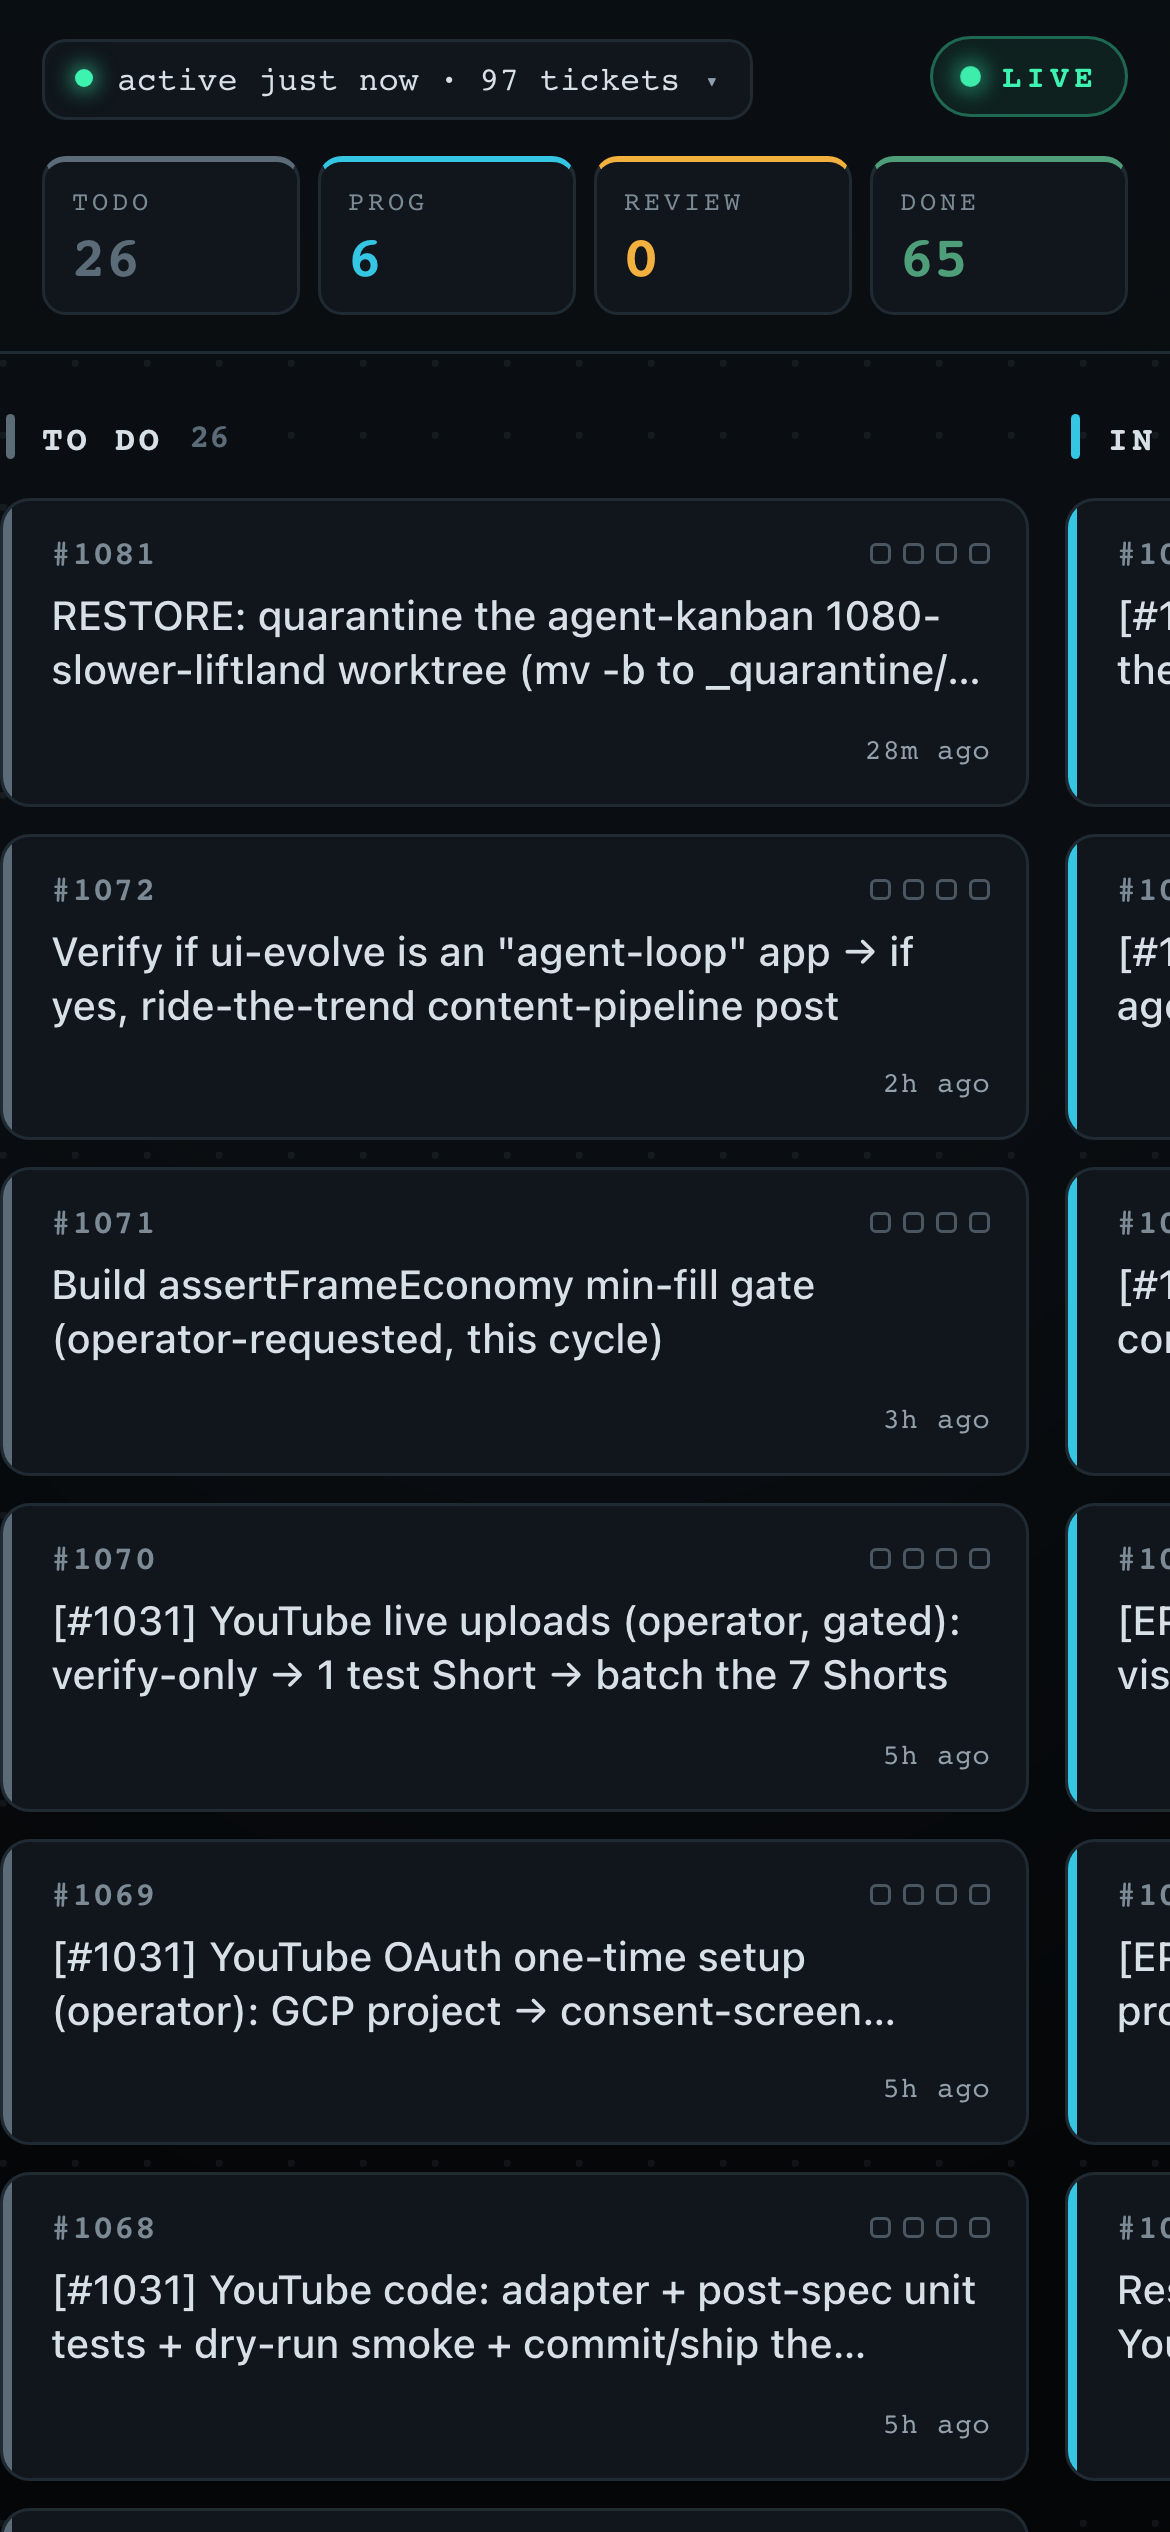
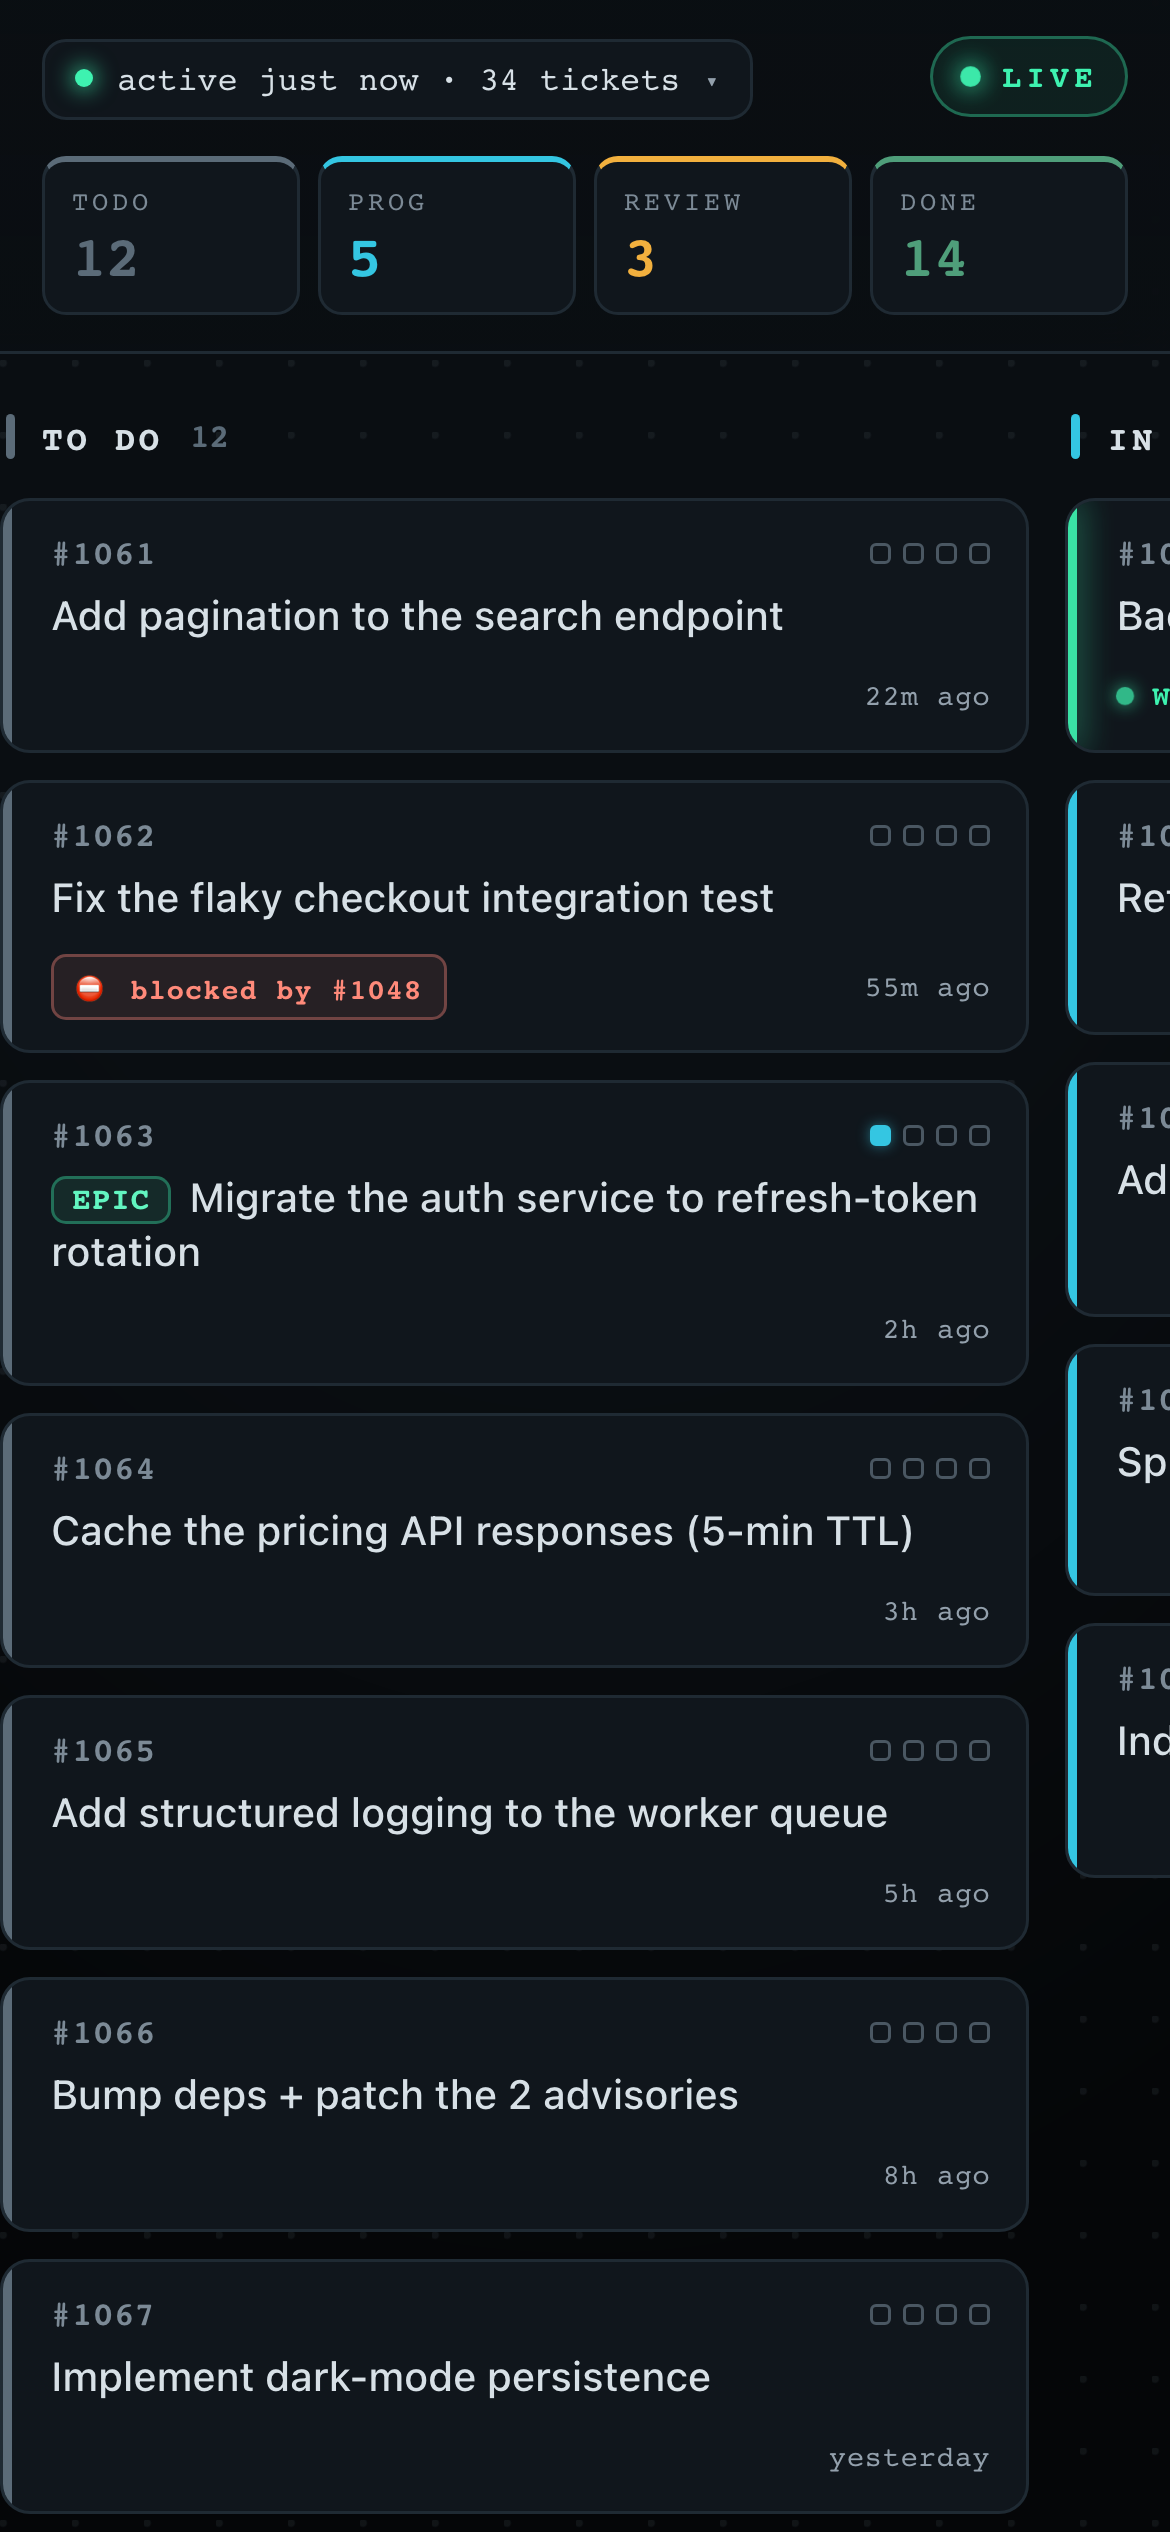
feat(kanban-demo): re-capture against a GENERIC believable board (no private backlog) (#1063)
Operator: use generic placeholder tickets (they don't look fake) instead of the real
private board for the public post. Re-captured all board assets against an enriched
generic agent-kanban board (42 realistic-but-fictional dev tickets — "Add pagination
to the search endpoint", "Refactor the notification fan-out service", etc.; no
employer brand, no real project names). Beat-6 hero board-overview.png re-shot;
provenance sha256/bytes updated to match (kanbanSpec provenance test green). The card
chip, blocked-by, pips, session picker, and the beat-7 WORKING pan-zoom all render on
the generic data; captions stay real-synced (reused Adam, -21.9 dB, gate passed).

diff --git a/video/kanbanStoryboard.ts b/video/kanbanStoryboard.ts
@@ -216,8 +216,8 @@ export const KANBAN_BEATS: ReadonlyArray<KanbanBeat> = [
     isTerminal: false, isHeroOutput: true, backgroundColor: BG_OUTPUT_A,
     hero: {
       source: "assets/kanban-demo/board-overview.png",
[1 lines of base64/hex data omitted]
-      bytes: 293104,
[1 lines of base64/hex data omitted]
+      bytes: 246903,
       srcW: 1170, srcH: 2532, holdSec: 2.0,
       // The board still is framed INSET in the portrait device (outputDeviceSpineRect) on the cream world — a
       // MODEST vertical pan UP that SETTLES on the header + the LIVE/IDLE badge (cy 0.04, device top). Pure
